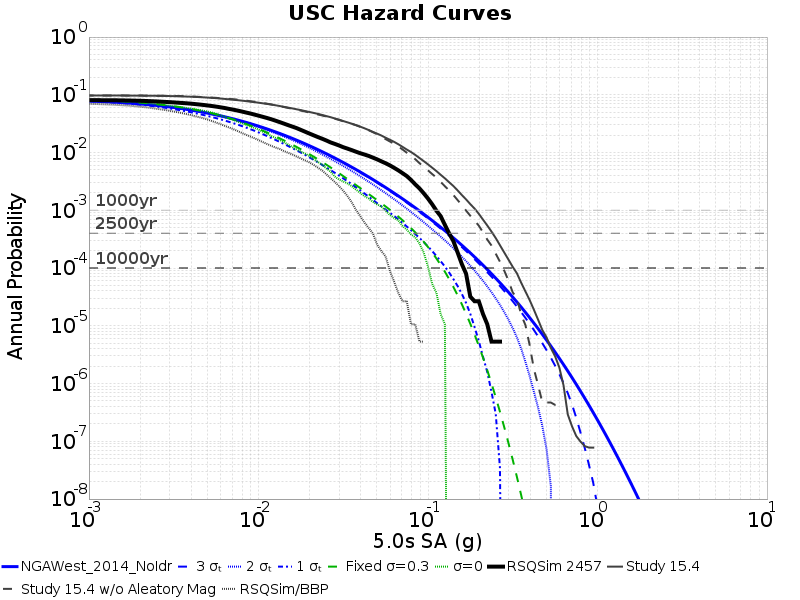
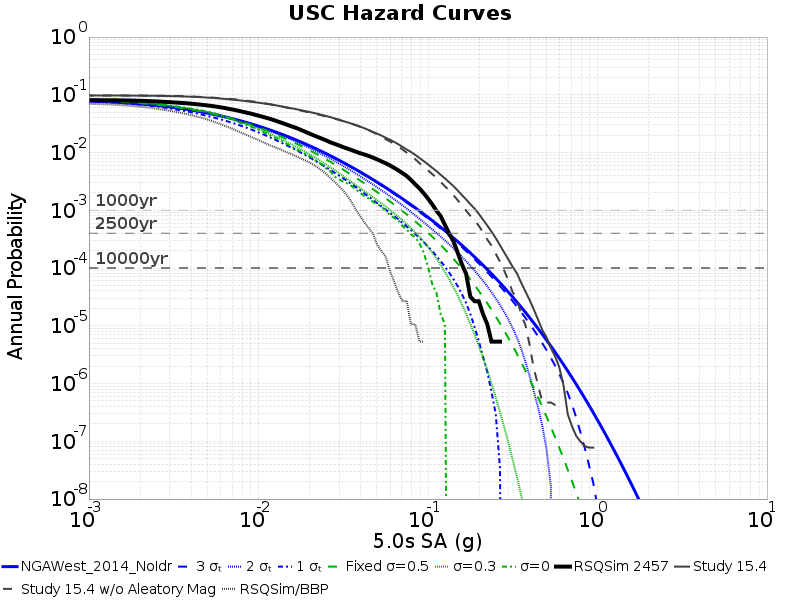
now with fixed sigma=0.5 curves

diff --git a/study_18_4_rsqsim_prototype_2457/site_hazard_USC_Vs30Simulation/index.html b/study_18_4_rsqsim_prototype_2457/site_hazard_USC_Vs30Simulation/index.html
@@ -56,8 +56,9 @@ img {
 <li>Blue Dashed Line: NGAWest_2014_NoIdr, 3-sigma truncation</li>
 <li>Blue Dotted Line: NGAWest_2014_NoIdr, 2-sigma truncation</li>
 <li>Blue Dotted and dashed Line: NGAWest_2014_NoIdr, 1-sigma truncation</li>
-<li>Green Dashed Line: NGAWest_2014_NoIdr, Fixed sigma=0.3</li>
-<li>Green Dotted Line: NGAWest_2014_NoIdr, Fixed sigma=0</li>
+<li>Green Dashed Line: NGAWest_2014_NoIdr, Fixed sigma=0.5</li>
+<li>Green Dotted Line: NGAWest_2014_NoIdr, Fixed sigma=0.3</li>
+<li>Green Dotted and dashed Line: NGAWest_2014_NoIdr, Fixed sigma=0</li>
 </ul>
 </li>
 <li>Gray Dashed Lines: 1000 yr, 2500 yr, 10000 yr return periods</li>

diff --git a/study_18_4_rsqsim_prototype_2457/site_hazard_USC_Vs30Simulation/README.md b/study_18_4_rsqsim_prototype_2457/site_hazard_USC_Vs30Simulation/README.md
@@ -31,8 +31,9 @@
   * Blue Dashed Line: NGAWest_2014_NoIdr, 3-sigma truncation
   * Blue Dotted Line: NGAWest_2014_NoIdr, 2-sigma truncation
   * Blue Dotted and dashed Line: NGAWest_2014_NoIdr, 1-sigma truncation
-  * Green Dashed Line: NGAWest_2014_NoIdr, Fixed sigma=0.3
-  * Green Dotted Line: NGAWest_2014_NoIdr, Fixed sigma=0
+  * Green Dashed Line: NGAWest_2014_NoIdr, Fixed sigma=0.5
+  * Green Dotted Line: NGAWest_2014_NoIdr, Fixed sigma=0.3
+  * Green Dotted and dashed Line: NGAWest_2014_NoIdr, Fixed sigma=0
 * Gray Dashed Lines: 1000 yr, 2500 yr, 10000 yr return periods
 
 ### 3s Hazard Curves
